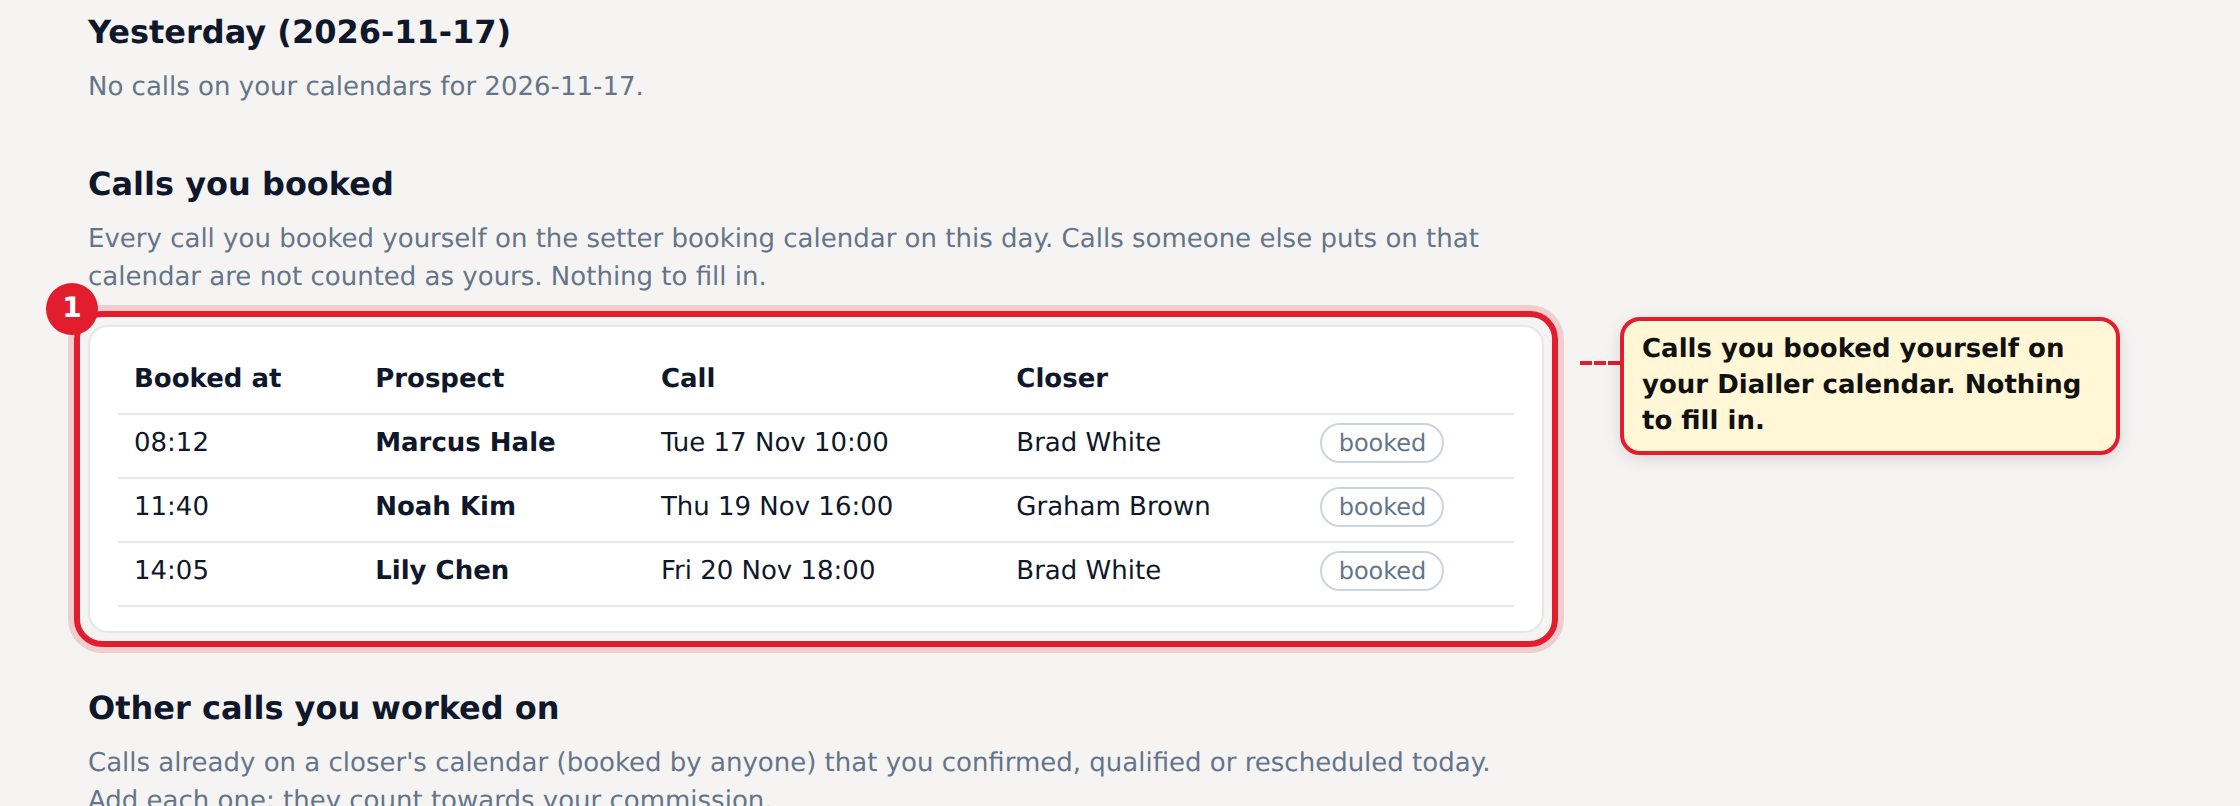
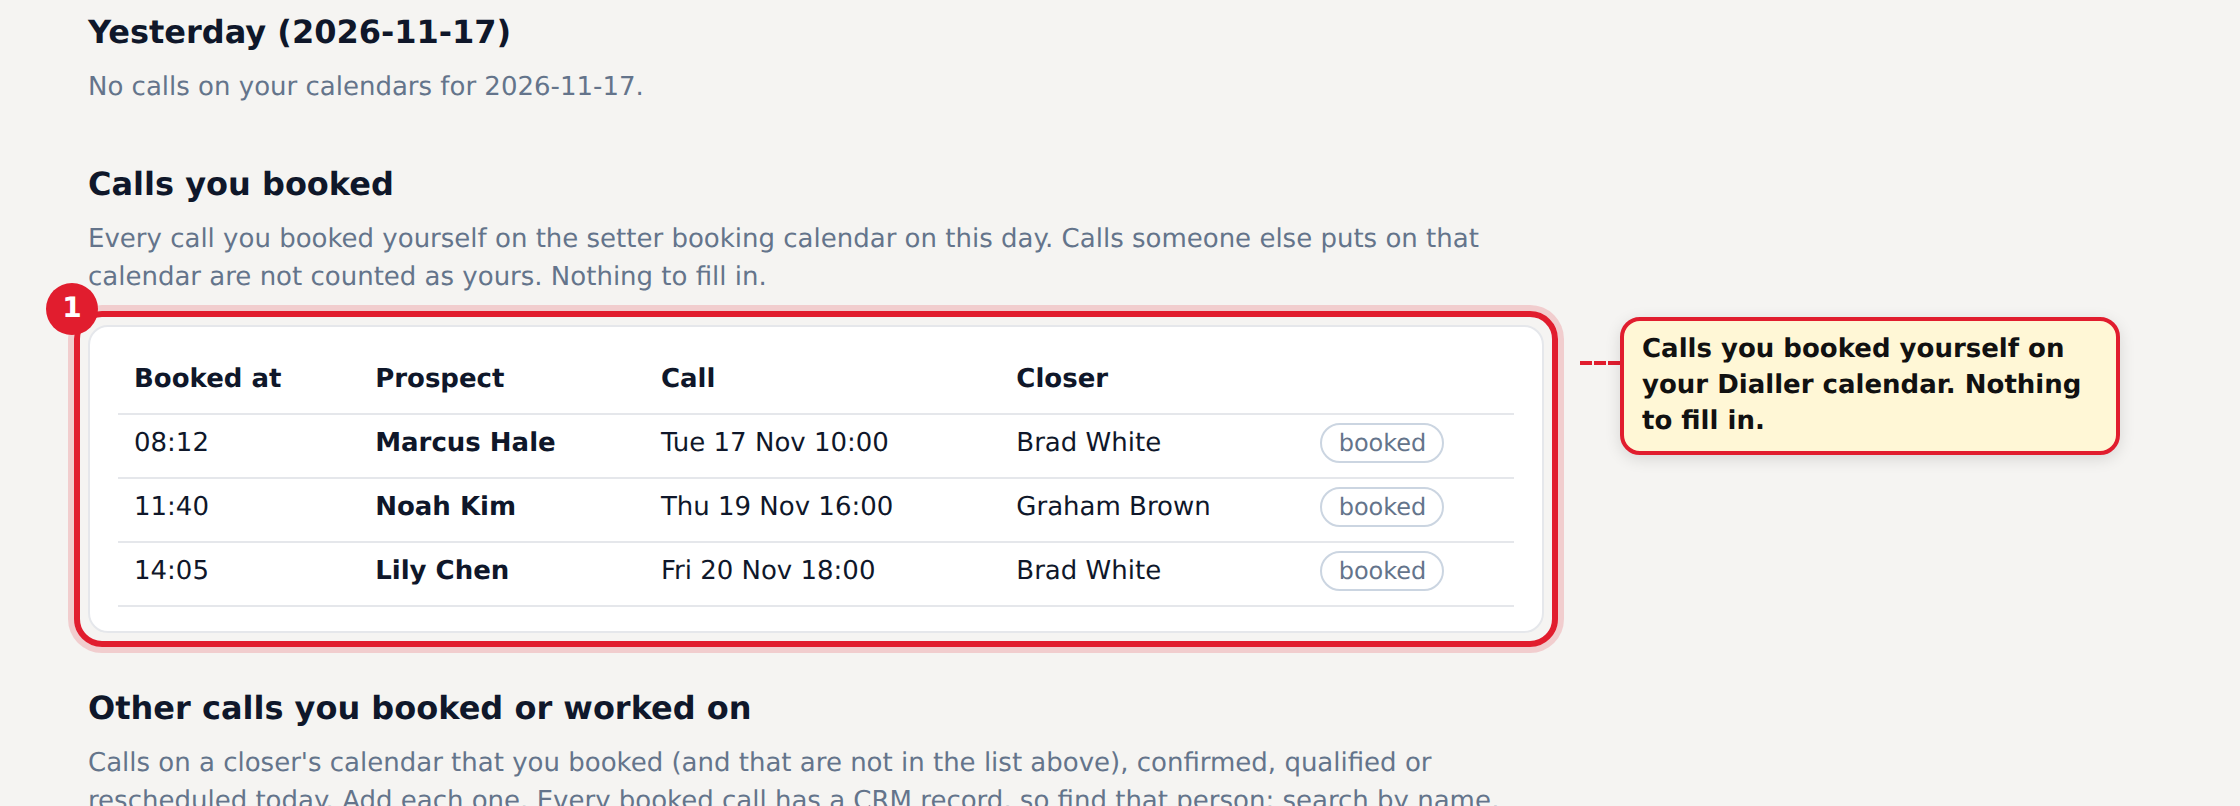
docs: setter guide — Booked it for calls she booked that were not picked up; always find the existing CRM person; new screenshots

Changed region(s): [[0.0312, 0.9305, 0.6875, 1.0], [0.1562, 0.8685, 0.3438, 0.8995]]

diff --git a/eod/setters/index.html b/eod/setters/index.html
@@ -93,7 +93,7 @@
   <p class="eyebrow">ACTA Academy · Jules</p>
   <h1>End-of-day report: setters</h1>
   <p class="lede">How to file your end-of-day report: your dials and bookings fill in by themselves; you add the calls you confirmed, qualified or rescheduled.</p>
-  <section class="step"><h3><span class="n">1</span>Open your report</h3><p>Go to <b>actadash.engrow.ai</b>, sign in with your actafootball.com email (a one-time code is emailed to you) and bookmark it. Open <b>End of day report</b>. File it every working day by <b>10pm Pacific</b>. Your Salesfinity dials, connects and talk time fill in by themselves.</p><img class="shot" src="../img/setter-1-auto.png" alt="Open your report" loading="lazy"></section><section class="step"><h3><span class="n">2</span>Calls you booked: automatic</h3><p>Every call you book yourself on the <b>ACTA Player Development Session - Dialler</b> calendar is counted as yours. Nothing to fill in. Always book on that calendar, from your own login, so the call is credited to you.</p><img class="shot" src="../img/setter-2-booked.png" alt="Calls you booked: automatic" loading="lazy"></section><section class="step"><h3><span class="n">3</span>Calls you confirmed, qualified or rescheduled</h3><p>For calls already on a closer&#39;s calendar that someone else booked:</p><ul><li>Find the person by name, email or phone, or paste their CRM link.</li><li>Pick the call.</li><li>Tick everything you did: <b>Confirmed it</b>, <b>Qualified them</b>, <b>Rescheduled it</b>.</li><li>Write what you found out or agreed, then <b>Add to my report</b>.</li></ul><p>Repeat for each person. Each one is credited to you, so add every one. For a reschedule, move the call in the CRM first, then pick it at its new time.</p><img class="shot" src="../img/setter-3-add.png" alt="Calls you confirmed, qualified or rescheduled" loading="lazy"></section><section class="step"><h3><span class="n">4</span>Check and submit</h3><p>Everything you added is listed. Remove anything that is wrong, then submit. You can open the report again and change it later.</p><img class="shot" src="../img/setter-4-submit.png" alt="Check and submit" loading="lazy"></section>
+  <section class="step"><h3><span class="n">1</span>Open your report</h3><p>Go to <b>actadash.engrow.ai</b>, sign in with your actafootball.com email (a one-time code is emailed to you) and bookmark it. Open <b>End of day report</b>. File it every working day by <b>10pm Pacific</b>. Your Salesfinity dials, connects and talk time fill in by themselves.</p><img class="shot" src="../img/setter-1-auto.png" alt="Open your report" loading="lazy"></section><section class="step"><h3><span class="n">2</span>Calls you booked: automatic</h3><p>Every call you book yourself on the <b>ACTA Player Development Session - Dialler</b> calendar is counted as yours. Nothing to fill in. Always book on that calendar, from your own login, so the call is credited to you.</p><img class="shot" src="../img/setter-2-booked.png" alt="Calls you booked: automatic" loading="lazy"></section><section class="step"><h3><span class="n">3</span>Other calls you booked, confirmed, qualified or rescheduled</h3><p>For any call on a closer&#39;s calendar you worked on that is not in your automatic list: one you set up that someone else booked, one you booked on another calendar, or one you confirmed, qualified or rescheduled:</p><ul><li>Find the person by name, email or phone, or paste their CRM link. Every booked call has a CRM record, so always find the existing person; never add a new contact.</li><li>Pick the call.</li><li>Tick everything you did: <b>Booked it</b>, <b>Confirmed it</b>, <b>Qualified them</b>, <b>Rescheduled it</b>.</li><li>Write what you found out or agreed, then <b>Add to my report</b>.</li></ul><p>Repeat for each person. Each one is credited to you, so add every one. Don&#39;t tick <b>Booked it</b> for a call already in your automatic list; it is counted already. For a reschedule, move the call in the CRM first, then pick it at its new time.</p><img class="shot" src="../img/setter-3-add.png" alt="Other calls you booked, confirmed, qualified or rescheduled" loading="lazy"></section><section class="step"><h3><span class="n">4</span>Check and submit</h3><p>Everything you added is listed. Remove anything that is wrong, then submit. You can open the report again and change it later.</p><img class="shot" src="../img/setter-4-submit.png" alt="Check and submit" loading="lazy"></section>
   <div class="note"><p>Screens show sample prospects. What you add stays in your report for a manager to review; it does not change the CRM. Anything with no sign of your work in Salesfinity or the CRM is flagged for review.</p></div>
 </main>
 </body>
